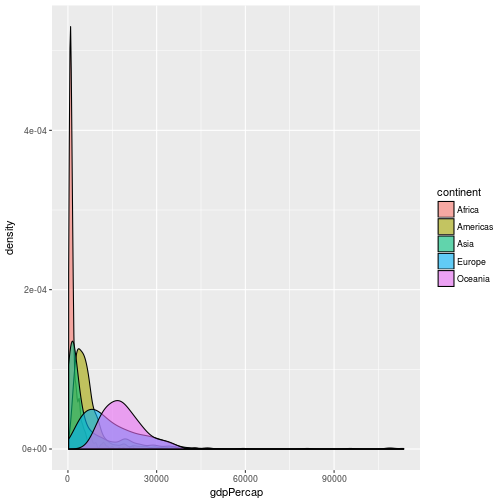
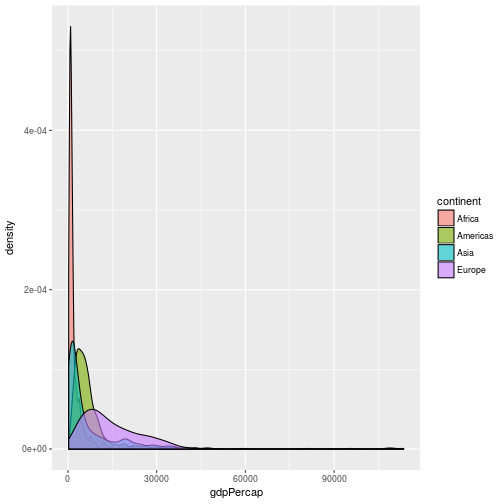
Exclude Oceania from ex 5

Changed region(s): [[0.119, 0.6845, 0.3571, 0.8929], [0.8631, 0.3571, 0.9821, 0.5952]]

diff --git a/_episodes/07-plot-ggplot2.md b/_episodes/07-plot-ggplot2.md
@@ -459,6 +459,8 @@ gapminder %>% filter(year == 2007, continent == "Europe") %>%
 >
 >  Create a density plot of GDP per capita, filled by continent. You 
 > may find making the density estimates partially transparent produces a clearer graph.
+> As there are only 2 countries in Oceania, a density plot isn't going to be useful for
+> this contient, so don't plot the data for it.
 >
 > Advanced:
 >
@@ -469,7 +471,9 @@ gapminder %>% filter(year == 2007, continent == "Europe") %>%
 > >
 > > 
 > > ~~~
-> >  gapminder %>%  ggplot(aes(x = gdpPercap, fill = continent)) +
+> >  gapminder %>%  
+> >  filter(continent != "Oceania") %>% 
+> >  ggplot(aes(x = gdpPercap, fill = continent)) +
 > >  geom_density(alpha = 0.6) 
 > > ~~~
 > > {: .language-r}
@@ -479,7 +483,9 @@ gapminder %>% filter(year == 2007, continent == "Europe") %>%
 > > 
 > > 
 > > ~~~
-> >  gapminder %>%  ggplot(aes(x = gdpPercap, fill = continent)) +
+> >  gapminder %>%  
+> >  filter(continent != "Oceania") %>% 
+> >  ggplot(aes(x = gdpPercap, fill = continent)) +
 > >  geom_density(alpha = 0.6) + facet_wrap( ~ year) + scale_x_log10()
 > > ~~~
 > > {: .language-r}
